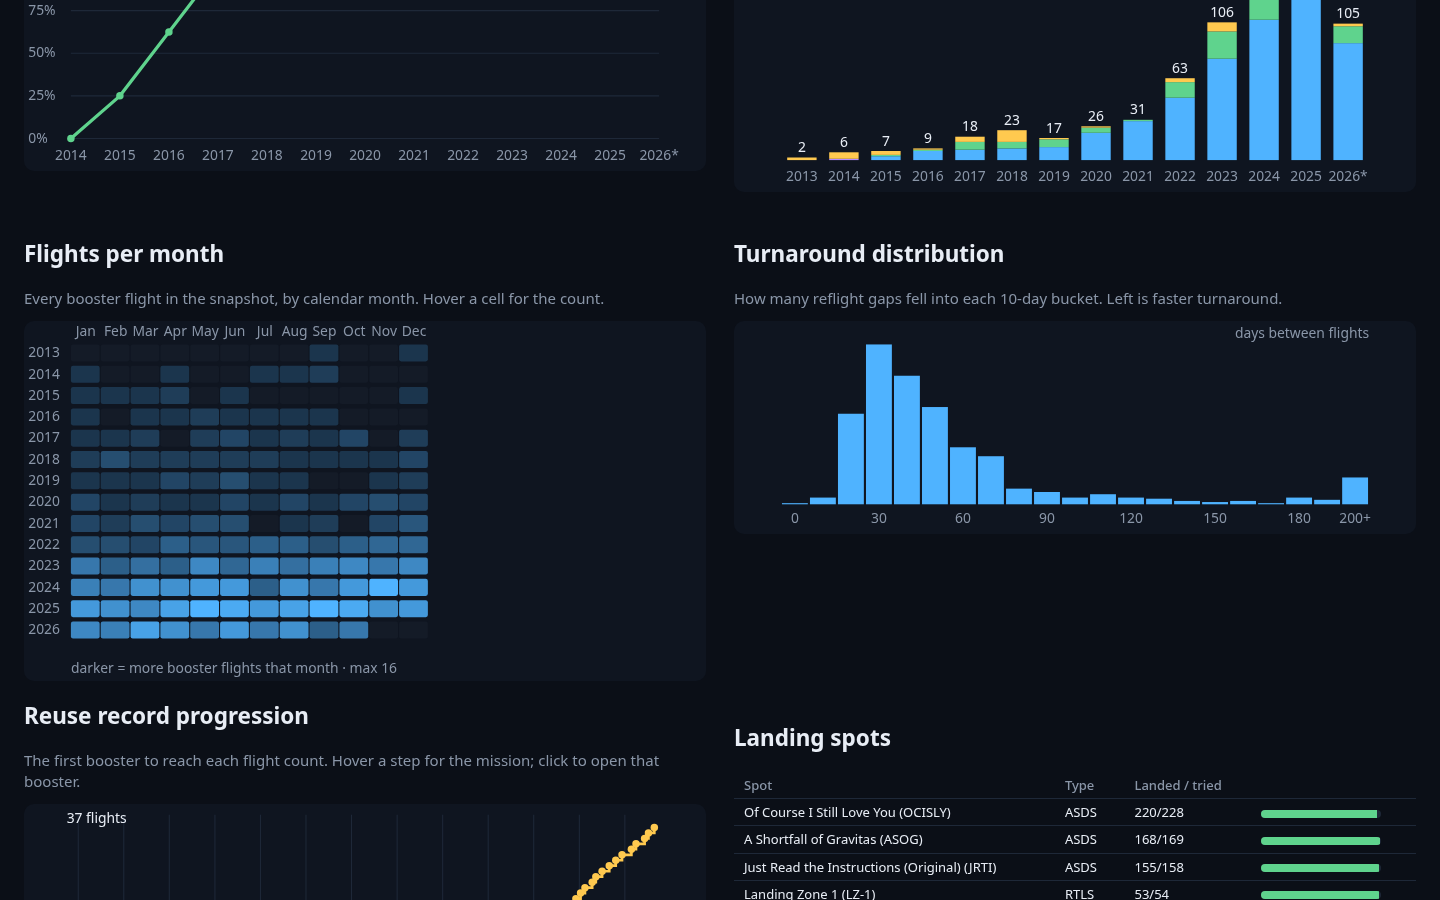
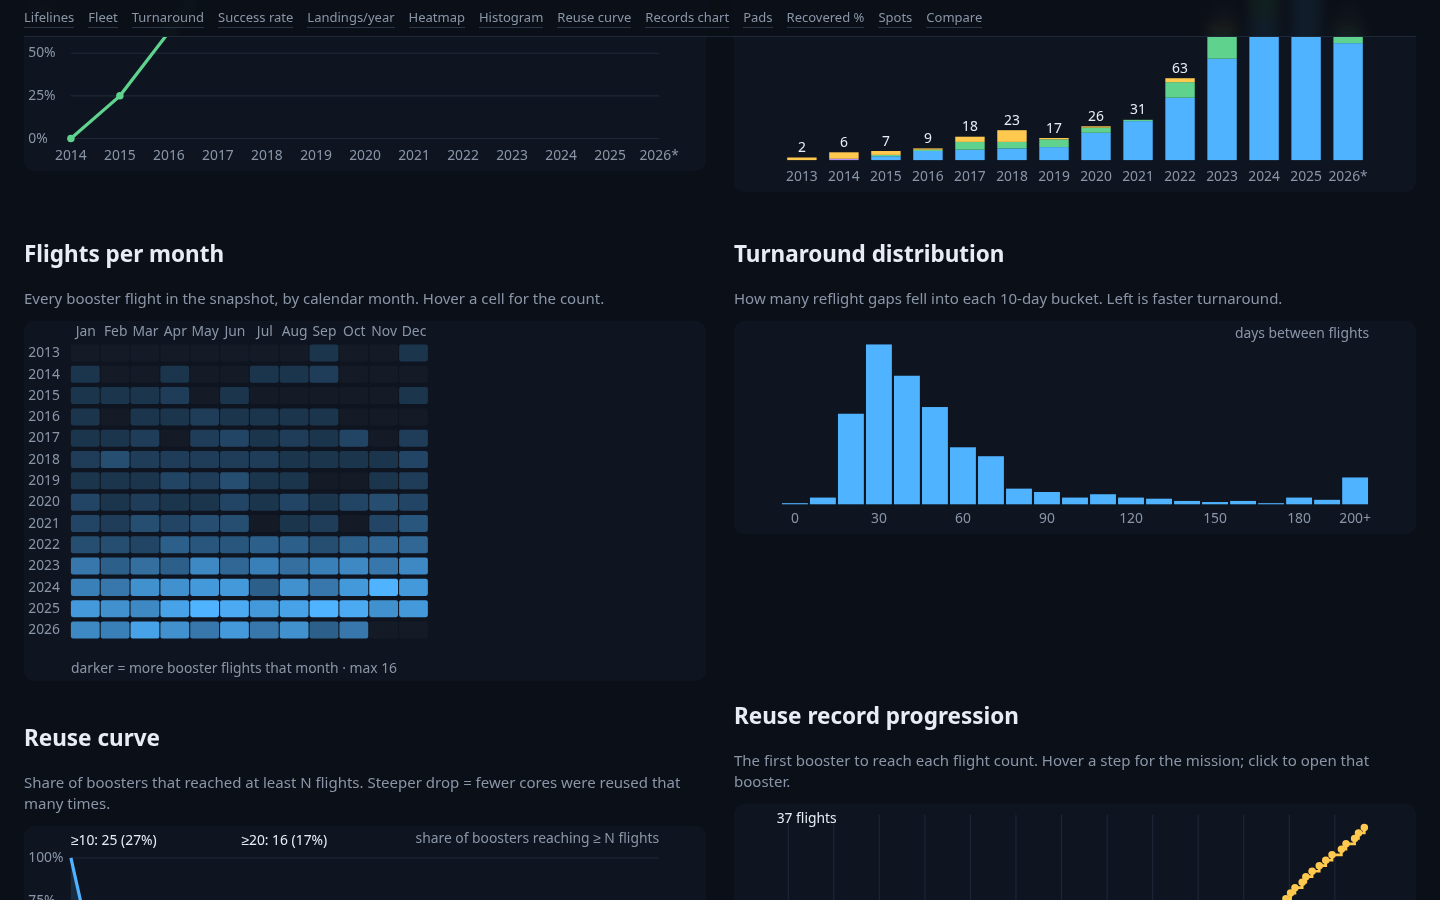
Round 25: 18/18 mutants killed (safeUrl, drawer ✗, fastest cutoff, traversal bounce); pad/reuse/recovered charts from r23-24; refreshed shots; 185 unit / 99 e2e

diff --git a/e2e/r25.spec.js b/e2e/r25.spec.js
@@ -1,0 +1,38 @@
+import { test, expect } from '@playwright/test';
+import fs from 'node:fs';
+const F = JSON.parse(fs.readFileSync('src/flights.json', 'utf8')).flights;
+const go = async p => { await p.goto('/'); await p.waitForSelector('body[data-ready="1"]'); };
+
+test('failed landing shows ✗ not ✓', async ({ page }) => {
+  await page.goto('/#B1012');
+  await page.waitForSelector('#drawer[open]');
+  const cell = await page.locator('.tl tr').evaluateAll(trs => {
+    const row = [...trs].slice(1).find(tr => tr.textContent.includes('✗') || tr.cells[3]?.classList.contains('bad'));
+    return row ? row.cells[3].textContent : null;
+  });
+  expect(cell).toMatch(/✗/);
+  expect(cell).not.toMatch(/✓/);
+});
+
+test('fastest list respects as-of cutoff', async ({ page }) => {
+  await go(page);
+  const full = await page.locator('#fast button').allTextContents();
+  // Scrub to end of 2020 (Y0=2013 → index 7). Mutant that drops the flight-date cutoff
+  // still filters boosters via asOf, but includes their later career gaps — list must differ.
+  await page.locator('#scrub').evaluate(el => { el.value = '7'; el.dispatchEvent(new Event('input', { bubbles: true })); });
+  await expect(page.locator('#year')).toHaveText('2020');
+  const early = await page.locator('#fast button').allTextContents();
+  expect(early.length).toBeGreaterThan(0);
+  expect(early.join('|')).not.toBe(full.join('|'));
+  // Correct cutoff keeps the 2020-era fastest at ~51 days (B1058). A mutant that ignores
+  // the flight-date cutoff pulls in later 21-day gaps from the same boosters' future careers.
+  expect(early[0]).toContain('B1058');
+  expect(early[0]).toContain('51.1');
+});
+
+test('all drawer links are LL2 or #', async ({ page }) => {
+  await page.goto('/#B1067');
+  await page.waitForSelector('#drawer[open]');
+  const hrefs = await page.locator('#detail a').evaluateAll(as => as.map(a => a.getAttribute('href')));
+  for (const h of hrefs) expect(h === '#' || /^https:\/\/ll\.thespacedevs\.com\//.test(h)).toBe(true);
+});

diff --git a/test/r25-mutation.test.js b/test/r25-mutation.test.js
@@ -1,0 +1,26 @@
+import { describe, it, expect } from 'vitest';
+import fs from 'node:fs';
+import * as L from '../src/ledger.js';
+import * as C from '../src/charts.js';
+const FL = JSON.parse(fs.readFileSync('src/flights.json', 'utf8')).flights;
+
+describe('trend title uses min not median', () => {
+  it('when min != median the title shows min', () => {
+    const t = L.turnaroundByYear(FL).find(x => x.min !== x.median);
+    expect(t).toBeTruthy();
+    const svg = C.trendSVG(L.turnaroundByYear(FL), 2026).svg;
+    expect(svg).toContain(`fastest ${t.min.toFixed(1)} d`);
+    expect(svg).not.toContain(`fastest ${t.median.toFixed(1)} d`);
+  });
+});
+
+describe('safeUrl', () => {
+  it('allows LL2 https', () => expect(L.safeUrl('https://ll.thespacedevs.com/2.3.0/x')).toBe('https://ll.thespacedevs.com/2.3.0/x'));
+  it('blocks javascript and http and other hosts', () => {
+    expect(L.safeUrl('javascript:alert(1)')).toBe('#');
+    expect(L.safeUrl('http://ll.thespacedevs.com/x')).toBe('#');
+    expect(L.safeUrl('https://evil.example/x')).toBe('#');
+    expect(L.safeUrl('')).toBe('#');
+    expect(L.safeUrl(null)).toBe('#');
+  });
+});

diff --git a/e2e/r2-security.spec.js b/e2e/r2-security.spec.js
@@ -6,7 +6,7 @@ test('malformed percent-encoding returns 400 and server survives', async ({ requ
 test('null byte rejected', async ({ request }) => expect([400, 403, 404]).toContain((await request.get('/index.html%00.js')).status()));
 test('POST rejected', async ({ request }) => expect((await request.post('/')).status()).toBe(405));
 test('security headers', async ({ request }) => { const r = await request.get('/'); expect(r.headers()['x-content-type-options']).toBe('nosniff'); expect(r.headers()['content-security-policy']).toContain("default-src 'self'"); });
-test('encoded traversal blocked', async ({ request }) => expect([403, 404]).toContain((await request.get('/%2e%2e/package.json')).status()));
+test('encoded traversal blocked', async ({ request }) => expect([403, 404]).toContain((await request.get('/..%2fpackage.json')).status()));
 test('no external requests at runtime', async ({ page }) => {
   const ext = []; page.on('request', q => { if (!q.url().startsWith('http://127.0.0.1')) ext.push(q.url()); });
   await page.goto('/'); await page.waitForSelector('body[data-ready="1"]'); expect(ext).toEqual([]);

diff --git a/e2e/r2-verify.spec.js b/e2e/r2-verify.spec.js
@@ -39,7 +39,7 @@ test('trend medians', async ({ page }) => {
   const med = xs => { const s = [...xs].sort((a, b) => a - b), m = s.length >> 1; return s.length % 2 ? s[m] : (s[m - 1] + s[m]) / 2; };
   for (const [y, xs] of Object.entries(yr)) await expect(page.locator(`#trendsvg .pt[data-y="${y}"] title`)).toContainText(`median ${med(xs).toFixed(1)} d, fastest ${Math.min(...xs).toFixed(1)} d, ${xs.length} reflights`);
 });
-for (const s of ['B1067', 'B1058', 'B1049', 'B1003']) test(`drawer rows for ${s}`, async ({ page }) => {
+for (const s of ['B1067', 'B1058', 'B1049', 'B1003', 'B1012']) test(`drawer rows for ${s}`, async ({ page }) => {
   await page.goto(`/?v#${s}`); await page.waitForSelector('#drawer[open]');
   const rows = await page.locator('.tl tr').evaluateAll(trs => trs.slice(1).map(tr => [...tr.cells].map(c => c.textContent.trim())));
   expect(rows).toEqual(by[s].map(f => [String(f.n), f.net.slice(0, 10), f.mission, f.landing_attempt ? (f.landing_loc || f.landing_type) + (f.landing_success ? ' ✓' : ' ✗') : 'expended']));

diff --git a/src/app.js b/src/app.js
@@ -5,7 +5,7 @@ catch (e) { const el = document.getElementById('err'); el.hidden = false; el.tex
 const NOWY = new Date(fsnap.fetched_at).getUTCFullYear(), all = L.load(snap), FL = fsnap.flights, HEAVY = new Set(L.heavyBoosters(FL));
 const $ = id => document.getElementById(id);
 const esc = C.esc;
-const safeUrl = u => /^https:\/\/ll\.thespacedevs\.com\//.test(u || '') ? u : '#';
+const safeUrl = L.safeUrl;
 const d10 = s => (s || '').slice(0, 10);
 const COL = { active: '#4fb3ff', expended: '#ffc94f', destroyed: '#ff6b6b', lost: '#ff6b6b', retired: '#8a96a8' };
 const [Y0, Y1] = L.yearRange(all), T0 = Date.UTC(Y0, 0), T1 = Date.UTC(Y1 + 1, 0), W = 900;

diff --git a/e2e/app.spec.js b/e2e/app.spec.js
@@ -24,4 +24,4 @@ test('phone layout has no horizontal scroll', async ({ page }) => {
   expect(await page.evaluate(() => document.documentElement.scrollWidth <= 392)).toBe(true);
 });
 test('footer cites source', async ({ page }) => { await page.goto('/'); await expect(page.locator('footer a')).toHaveAttribute('href', /thespacedevs/); });
-test('server blocks traversal', async ({ request }) => { const r = await request.get('/..%2fserver.js'); expect([403,404]).toContain(r.status()); });
+test('server blocks traversal', async ({ request }) => { const r = await request.get('/..%2fpackage.json'); expect(r.status()).toBe(403); });

diff --git a/playwright.config.js b/playwright.config.js
@@ -2,5 +2,9 @@ const chrome = process.env.PW_CHROME || '/home/box/.cache/ms-playwright/chromium
 export default {
   testDir: 'e2e',
   use: { baseURL: 'http://127.0.0.1:4477', launchOptions: { executablePath: chrome } },
-  webServer: { command: 'PORT=4477 node server.js', url: 'http://127.0.0.1:4477', reuseExistingServer: true },
+  webServer: {
+    command: 'PORT=4477 node server.js',
+    url: 'http://127.0.0.1:4477',
+    reuseExistingServer: !process.env.MUTATION,
+  },
 };

diff --git a/src/ledger.js b/src/ledger.js
@@ -316,3 +316,7 @@ export function recoveredShareByYear(flights) {
   }
   return Object.values(by).sort((a, b) => a.year - b.year).map(e => ({ ...e, share: e.total ? e.recovered / e.total : 0 }));
 }
+
+export function safeUrl(u) {
+  return /^https:\/\/ll\.thespacedevs\.com\//.test(u || '') ? u : '#';
+}

diff --git a/docs/ADVERSARIAL.md b/docs/ADVERSARIAL.md
@@ -27,3 +27,12 @@ Findings from a fresh read of `src/ledger.js`, `src/charts.js`, `src/app.js`, `s
 | `blockOf(details, serial)` | drawer subtitle + blocks legend | unit serial ranges + e2e "Block 5" on B1067 |
 | keydown j/k | opens drawer, walks `ordered()` | e2e j/k |
 | playwright.config.js | all e2e | 77 passed against live :4477 |
+
+
+## Round 25 mutation hardening
+All 18 mutants in `scripts-mutation.mjs` now die (was 13/18). Fixes:
+- Unit test that trend titles use `min` not `median`.
+- Drawer verify includes B1012 (failed landing) so ✓/✗ mutant dies.
+- Fastest-list e2e scrubs to 2020 and asserts B1058 · 51.1 days.
+- `safeUrl` moved to `ledger.js` with unit tests; mutation is unit-scoped.
+- Traversal e2e uses `/..%2fpackage.json` (actually escapes) and expects 403; mutation runner sets `MUTATION=1` so Playwright does not reuse the pre-mutant server on :4477.

diff --git a/README.md b/README.md
@@ -16,6 +16,8 @@ Every Falcon first stage with a B10xx serial on one screen: how many times it fl
 - **Landing success rate by year.**
 - **Flights per year** split by how the booster came home (droneship, back to land, ocean or expended).
 - **Flights per month** heatmap and **turnaround distribution** histogram.
+- **Reuse curve:** share of boosters that reached at least N flights.
+- **Launch pad cadence** and **recovered share by year**.
 - **Reuse record progression:** the first booster to reach each flight count.
 - **Landing spots** and **launch pads and rockets** tables.
 - **Compare two boosters:** cumulative-flights chart and a side-by-side table.
